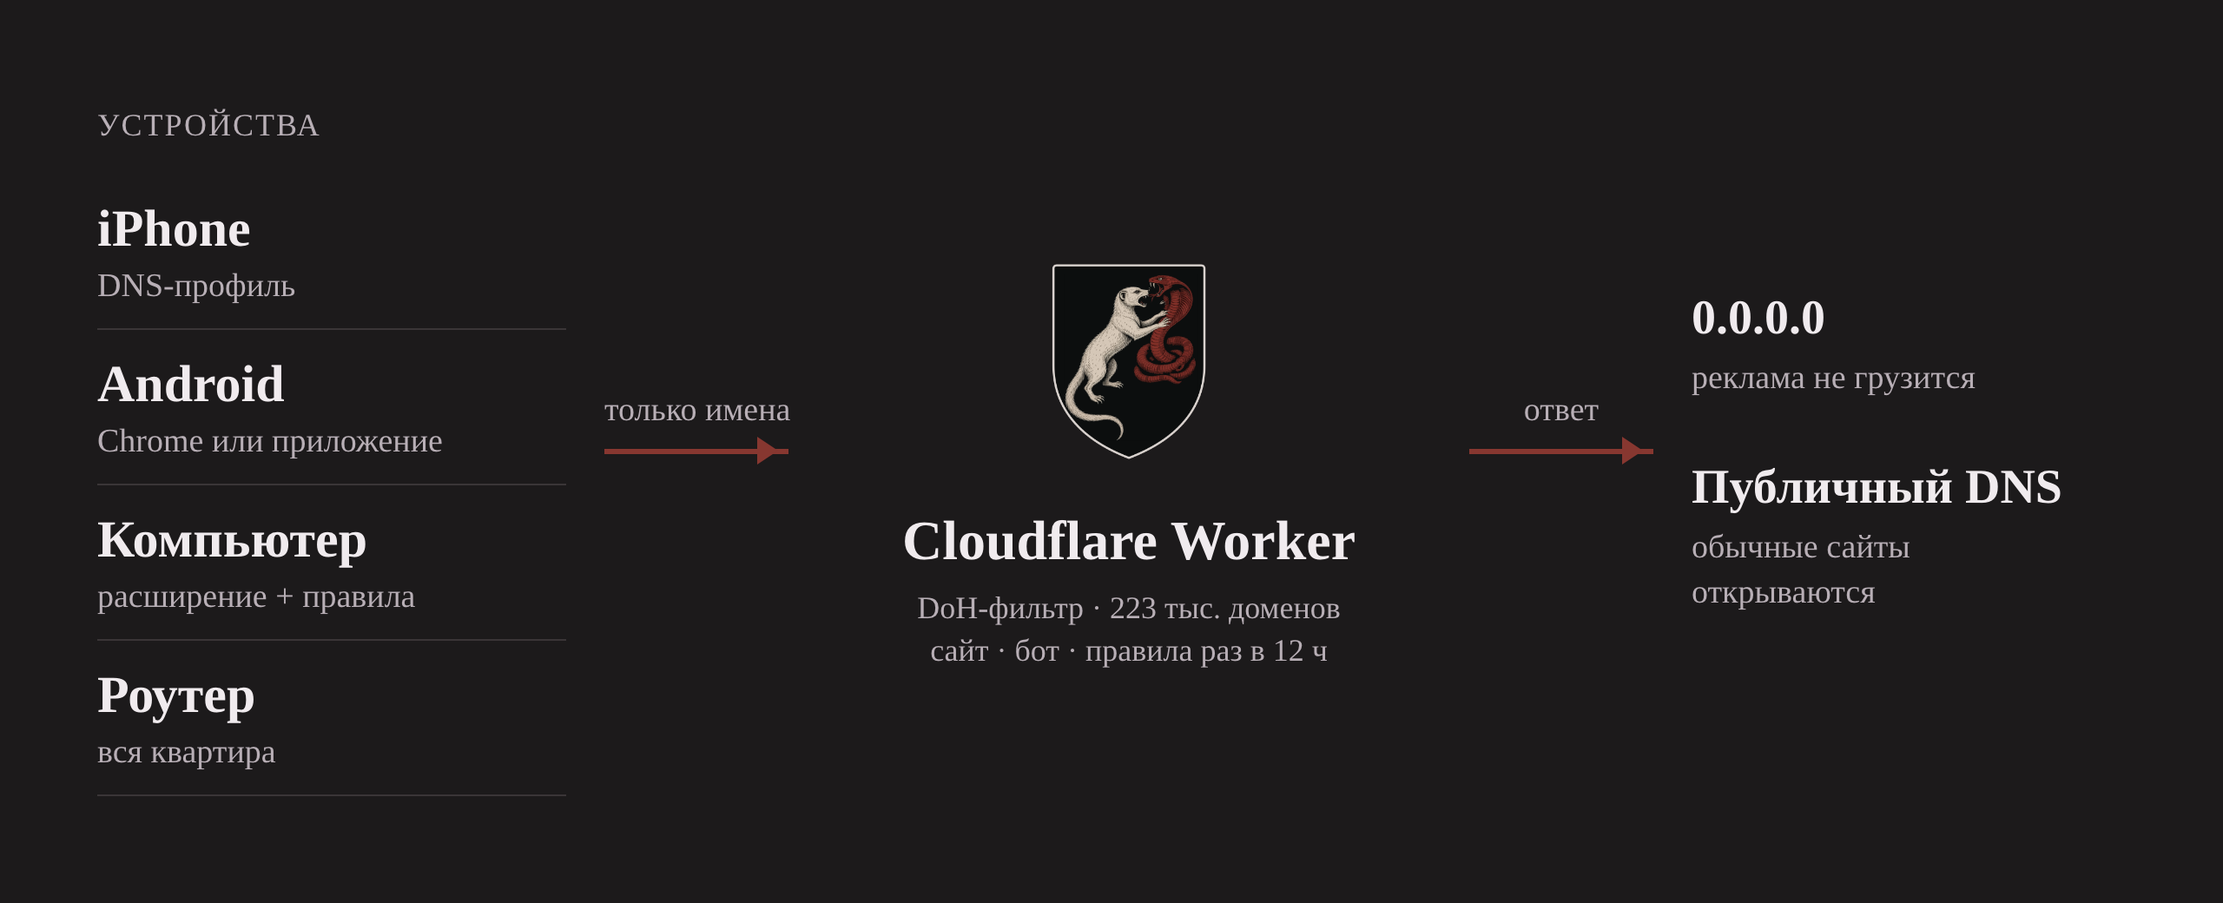
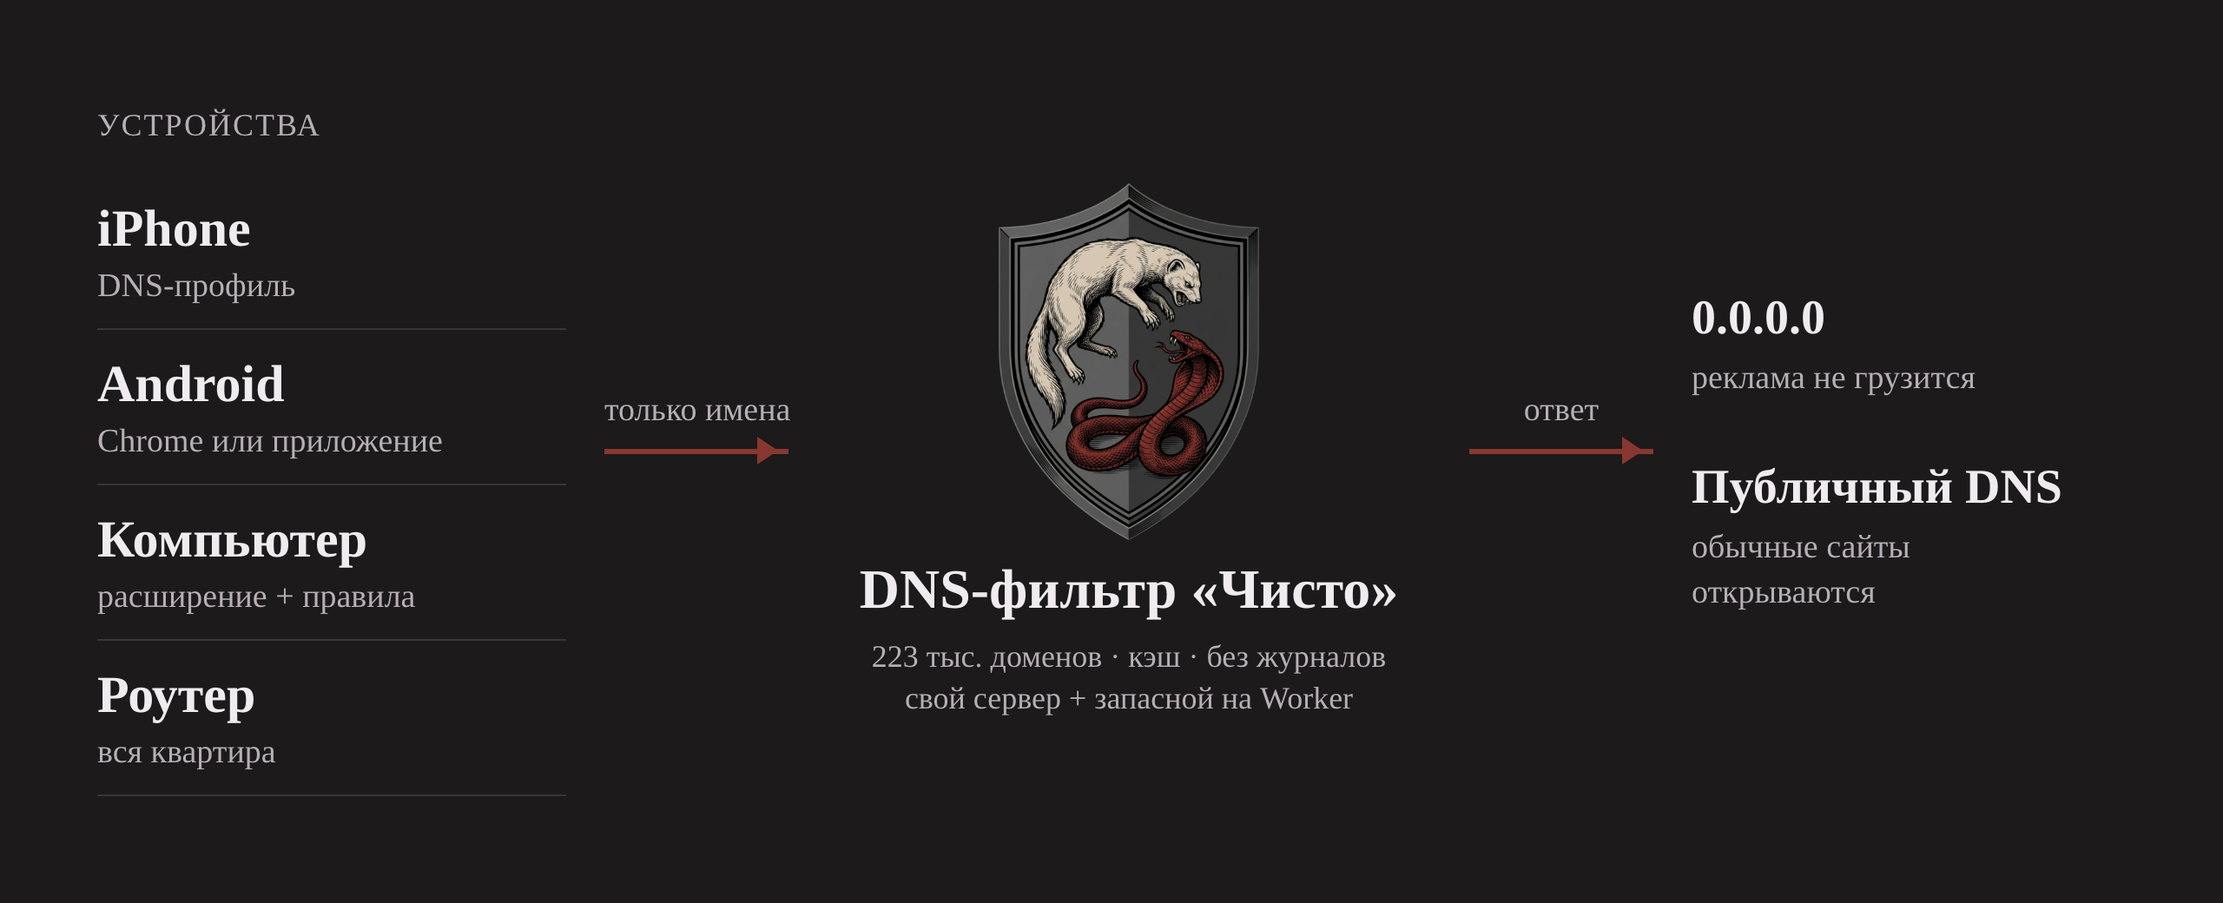
README и картинки под новый герб, бренд-кит в репозитории, лишнее убрано
- Баннер, схема, бот и скрин установки пересобраны с новым щитом
- README: вкладка VPN, свой DNS-сервер, без «навсегда», без имён
- brand/kit: герб, аватарка, баннер бота, шрифты; старые генераторы логотипов удалены
- .DS_Store и рабочие файлы бренда в .gitignore

Changed region(s): [[0.375, 0.2154, 0.625, 0.7385], [0.4062, 0.7692, 0.625, 0.8]]

diff --git a/site/style.css b/site/style.css
@@ -32,8 +32,9 @@ h2 { font-size: clamp(25px, 3vw, 32px); line-height: 1.15; font-weight: 700; mar
 h3 { font-size: 21px; font-weight: 700; margin: 36px 0 8px; }
 
 /* шапка */
-.bar { max-width: 1000px; margin: 0 auto; padding: 22px var(--pad) 0; display: flex; align-items: center; justify-content: space-between; gap: 16px; }
-.motto { margin: 0; font: 700 20px/1.2 var(--font); letter-spacing: .01em; }
+.bar { max-width: 1000px; margin: 0 auto; padding: 22px var(--pad) 0; display: grid; grid-template-columns: minmax(0, 300px) minmax(0, 1fr); gap: clamp(28px, 6vw, 72px); align-items: center; }
+.bar nav { justify-self: end; }
+.motto { margin: 0; text-align: center; font: 700 20px/1.2 var(--font); letter-spacing: .01em; }
 .bar nav { display: flex; gap: 22px; font-size: 17px; }
 
 /* первый экран: герб и текст на одной оси */
@@ -125,9 +126,13 @@ footer code { font-size: 17px; color: var(--muted); }
 
 @media (max-width: 720px) {
   .hero { grid-template-columns: 1fr; gap: 18px; padding-top: 24px; }
-  .crest { justify-self: start; width: 124px; }
-  .hero-text { padding-top: 0; }
-  h1::after { margin: 16px 0 16px; }
+  .bar { grid-template-columns: 1fr; gap: 10px; text-align: center; }
+  .bar nav { justify-self: center; }
+  .crest { justify-self: center; width: 124px; }
+  .hero { text-align: center; }
+  .hero-text { padding-top: 0; margin: 0 auto; }
+  .status { justify-content: center; }
+  h1::after { margin: 16px auto 16px; }
   .facts { margin-bottom: 16px; }
   .bar nav { gap: 16px; font-size: 15px; }
   .bar nav a { white-space: nowrap; }

diff --git a/site/index.html b/site/index.html
@@ -233,11 +233,8 @@
   <div class="foot">
     <p id="tgLine" hidden>Отправить другу удобнее через бота: <a id="tgLink" href="#" rel="noopener"></a> — там те же&nbsp;кнопки.</p>
 
-    <p class="more">Другой проект студии: <a href="https://kachalka.flownote.cc/" rel="noopener">Качалка</a> — сохранение видео из&nbsp;YouTube, TikTok и&nbsp;VK без&nbsp;водяных знаков.</p>
+    <p class="more">Другая программа автора: <a href="https://kachalka.flownote.cc/" rel="noopener">Качалка</a> — сохранение видео из&nbsp;YouTube, TikTok и&nbsp;VK без&nbsp;водяных знаков.</p>
 
-    <a class="ksd" href="https://ksd.flownote.cc/?from=chisto" rel="noopener" aria-label="Студия KSD — работы студии">
-      <span><b>Чисто&nbsp;— проект студии KSD.</b> Разрабатываем сайты и&nbsp;Telegram-боты без&nbsp;рекламы и&nbsp;чужих трекеров. <u>Работы студии</u></span>
-    </a>
 
     <details class="donate" id="donate">
       <summary>Поддержать проект</summary>

diff --git a/.github/assets/src/arch.html b/.github/assets/src/arch.html
@@ -22,6 +22,6 @@ body{padding:56px 56px;display:grid;grid-template-columns:270px 150px 1fr 150px 
 <div class="dev">Компьютер<span>расширение + правила</span></div>
 <div class="dev">Роутер<span>вся квартира</span></div></div>
 <div class="arrow"><i>только имена</i></div>
-<div class="core"><img src="../../../brand/kit/crest-2048.png" alt=""><b>Cloudflare Worker</b><span>DoH-фильтр · 223 тыс. доменов<br>сайт · бот · правила раз в 12 ч</span></div>
+<div class="core"><img src="../../../brand/kit/crest-transparent.png" alt=""><b>DNS-фильтр «Чисто»</b><span>223 тыс. доменов · кэш · без журналов<br>свой сервер + запасной на Worker</span></div>
 <div class="arrow"><i>ответ</i></div>
 <div class="out"><b>0.0.0.0</b><span>реклама не грузится</span><div class="z"><b>Публичный DNS</b><span>обычные сайты<br>открываются</span></div></div>

diff --git a/.github/assets/src/banner.html b/.github/assets/src/banner.html
@@ -2,13 +2,13 @@
 <style>
 :root{--w:1280px;--h:440px}
 body{display:flex;align-items:center;gap:56px;padding:0 96px}
-img{width:330px;height:330px;flex:none;margin:0 -30px}
+img{width:auto;height:300px;flex:none;margin:0 10px}
 h1{font-size:150px;font-weight:700;line-height:.9;letter-spacing:-2px}
 .rule{margin:30px 0 26px}
 p{font-size:34px;line-height:1.25}
 small{display:block;margin-top:18px;font-size:22px;color:var(--muted)}
 </style>
-<img src="../../../brand/kit/crest-2048.png" alt="">
+<img src="../../../brand/kit/crest-transparent.png" alt="">
 <div><h1>Чисто</h1><div class="rule"></div>
 <p>Убирает рекламу и слежку на телефоне и&nbsp;компьютере.</p>
-<small>iPhone · Android · компьютер · роутер · Telegram — бесплатно, без регистрации</small></div>
+<small>iPhone · Android · компьютер · VPN · Telegram — бесплатно, без регистрации</small></div>

diff --git a/README.md b/README.md
@@ -14,7 +14,7 @@
 <h3 align="center">Открыл сайт, нажал одну кнопку — реклама пропала.</h3>
 
 <p align="center">
-  Сайты, игры на телефоне, баннеры и слежка. Без регистрации, без аккаунта, без программ, которые висят в фоне. Бесплатно навсегда.
+  Сайты, игры на телефоне, баннеры и слежка. Без регистрации, без аккаунта, без программ, которые висят в фоне. Бесплатно.
 </p>
 
 <p align="center">
@@ -43,7 +43,7 @@
 
 Блокировщик стоит между вами и интернетом, поэтому доверие надо заслужить, а не попросить.
 
-- **Сервер видит только имена сайтов.** Через него идёт DNS, а не ваш трафик: страницы, пароли и переписка идут напрямую.
+- **Сервер видит только имена сайтов.** Через него идёт DNS, а не ваш трафик: страницы, пароли и переписка идут напрямую. Журналов сервер не пишет.
 - **Ничего не собираем.** Ни аккаунтов, ни журналов, ни аналитики — [docs/PRIVACY.md](docs/PRIVACY.md).
 - **Весь код открыт**, а архивы расширения в [релизах](https://github.com/kozliq/chisto/releases) собирает GitHub с подтверждением происхождения — можно проверить, что файл собран из этого кода.
 - **Даже если сервер угонят**, расширение не примет от него ничего опасного: только «заблокировать» и «разрешить».
@@ -67,7 +67,8 @@
 | iPhone (позже) | Приложение DNS Settings + блокировщик Safari | Только TestFlight / App Store, нужен аккаунт Apple $99/год |
 | Android | «Безопасный DNS» в Chrome; приложение (локальный VPN только для DNS) — APK собирается на GitHub | Скопировать адрес → 3 касания в Chrome |
 | Компьютер | Расширение MV3 (Chrome-семейство и Firefox) + по желанию DNS | Архив с сайта или файлом в боте → «Загрузить распакованное» (в магазинах — позже) |
-| Роутер | DoH/DoT на роутере | Вся домашняя сеть без установки |
+| С VPN | DNS-адрес и список доменов прямо в VPN-клиенте | Вкладка «У меня VPN»: Shadowrocket, sing-box, Happ, V2Ray/Xray, Clash |
+| Роутер | DoH на роутере | Вся домашняя сеть без установки |
 | Telegram | Бот [@chisto_ads_bot](https://t.me/chisto_ads_bot): те же кнопки, расширение файлом, «поделиться» в любом чате | `/start` |
 
 Сколько действий: iPhone — 4 касания и код-пароль; Android и Chrome — скопировать адрес и 3 касания; расширение — 3 шага из архива (в магазинах пока нет).
@@ -115,7 +116,7 @@
 | DoT (Android «Частный DNS», часть роутеров) | **нет** | **нет** | да |
 | Защита от CNAME-маскировки | да | да (тот же код) | да (AdGuard Home) |
 | Обновление списков | при деплое | при выкладке | само, раз в сутки |
-| Сколько людей | несколько десятков телефонов (100 000 запросов/сутки) | тысячи (2 600 запросов/с на 1 ядре) | сотни |
+| Сколько людей | несколько десятков телефонов (100 000 запросов/сутки) | тысячи (4 400 запросов/с на 1 ядре, с кэшем) | сотни |
 
 Официальный «Чисто» так и устроен: сайт и бот — на Worker, DNS для телефонов — на своём сервере (`chisto-dns.flownote.cc`).
 
@@ -156,6 +157,7 @@ Telegram-бот (по желанию): создайте бота в @BotFather, 
     .env.example              — DOH_HOST, DOH_PATH, SERVER_IP и др. Секретов в репозитории нет
     server/                   — docker-compose (AdGuard Home + Caddy), шаблон AdGuardHome.yaml, Caddyfile
     cloudflare/               — бесплатный вариант: Worker = DoH-фильтр + сайт + Telegram-бот; тесты
+    server/deno/              — тот же DNS-фильтр на своём сервере: Deno + Cloudflare Tunnel + сторож
     filters/custom.txt        — свои правила (≈50 примеров всех типов), README — как добавить и откатить
     filters/shared-cdn.txt    — общие CDN, которые нельзя резать в DNS
     tools/build.mjs           — одна сборка: DNS, расширение, Safari, обновления; tools/rules.mjs — конвертер
@@ -177,7 +179,7 @@ Telegram-бот (по желанию): создайте бота в @BotFather, 
 
 ## Поддержать
 
-Чисто бесплатное и таким останется. Если хочется сказать спасибо — [DONATE.md](DONATE.md).
+Чисто бесплатное, пока проект жив; закроется — код открыт, поднимайте у себя. Если хочется сказать спасибо — [DONATE.md](DONATE.md).
 
 ## Лицензия
 

diff --git a/brand/kit/BRAND.md b/brand/kit/BRAND.md
@@ -1,0 +1,54 @@
+# Фирменный стиль «Чисто»
+
+Утверждён Валерой 25.10.2026. Старый стиль (синий, золото, Прометей, Unbounded, «Война с рекламой вечна») больше не используем.
+
+## Образ
+
+Герб: **мангуст против кобры** («Рикки-Тикки-Тави»). Мангуст — мы: меньше, бешеный, но побеждает. Кобра — реклама и слежка.
+Рыцарский щит-тарч в технике гравюры: серое поле с двойным кантом, светлый мангуст в прыжке над красной коброй. Без надписей, корон и «AD» на гербе.
+
+## Файлы (папка `brand/kit/`)
+
+| Файл | Для чего |
+|---|---|
+| `crest-2048.png` | герб на тёмном фоне, 2048×2048 — из него `tools/icons.sh` делает все иконки |
+| `crest-transparent.png` | только щит на прозрачном фоне — для баннеров, README, обложек |
+| `avatar-640.png` | аватарка бота / канала (щит влезает в круг Telegram) |
+| `tg-banner-640x360.png` | картинка в описании бота (BotFather → Edit Description Picture) |
+| `fonts/` | Tinos 400 и 700 (woff2, кириллица + латиница) |
+
+## Цвета
+
+| Роль | Цвет |
+|---|---|
+| Фон страницы | `#1c1a1b` |
+| Поле щита, самые тёмные блоки | `#0c0e0e` |
+| Основной текст | `#f0ebee` |
+| Вторичный текст (не темнее) | `#b8afb6` |
+| Кость (мангуст), рамка щита | `#cfc2b3` / рамка `#d9d2ce` |
+| Красный кобры — только линии и заливки | `#873730`, тёмный `#672a25` |
+
+Красный и оранжевый ТЕКСТ не использовать (Валера: «странный, непонятный»). Акцент в тексте — жирность и размер, цвет текста всегда `#f0ebee` или `#b8afb6`.
+Жёлтый и синий не использовать. Текст не затемнять прозрачностью.
+
+## Шрифт — один на всё: Tinos (Times New Roman)
+
+Валера выбрал 25.10: **всё на Times** — заголовки, текст, кнопки. Берём **Tinos** (бесплатная копия Times New Roman с той же шириной букв, Apache 2.0), чтобы на Android и Windows выглядело так же, как на Маке. Playfair Display, Manrope, Unbounded, Literata больше не используем.
+
+- Вес 700 — «Чисто» и заголовки, 400 — текст, 700 — кнопки и выделения.
+- Текст от 17px (с засечками мелкий текст читается хуже), подписи не меньше 13px.
+- Курсив на кириллице не использовать.
+
+```css
+@font-face{font-family:Tinos;src:url(fonts/tinos-cyrillic-400.woff2) format("woff2");font-weight:400;unicode-range:U+0301,U+0400-045F,U+0490-0491,U+04B0-04B1,U+2116}
+@font-face{font-family:Tinos;src:url(fonts/tinos-latin-400.woff2) format("woff2");font-weight:400;unicode-range:U+0000-00FF,U+0131,U+0152-0153,U+02BB-02BC,U+02C6,U+02DA,U+02DC,U+0304,U+0308,U+0329,U+2000-206F,U+20AC,U+2122,U+2191,U+2193,U+2212,U+2215,U+FEFF,U+FFFD}
+@font-face{font-family:Tinos;src:url(fonts/tinos-cyrillic-700.woff2) format("woff2");font-weight:700;unicode-range:U+0301,U+0400-045F,U+0490-0491,U+04B0-04B1,U+2116}
+@font-face{font-family:Tinos;src:url(fonts/tinos-latin-700.woff2) format("woff2");font-weight:700;unicode-range:U+0000-00FF,U+0131,U+0152-0153,U+02BB-02BC,U+02C6,U+02DA,U+02DC,U+0304,U+0308,U+0329,U+2000-206F,U+20AC,U+2122,U+2191,U+2193,U+2212,U+2215,U+FEFF,U+FFFD}
+body{font-family:Tinos,"Times New Roman",Times,serif}
+```
+
+Для картинок README/статьи (headless Chrome) — тот же Tinos из `kit/fonts/`.
+
+## Правила Валеры для интерфейса
+
+Без «квадратиков»: никаких карточек, плиток, кнопок-прямоугольников, полей в рамках, пилюль. Группировать воздухом, линиями, крупным шрифтом. Кнопки — текст с подчёркиванием или круглая метка с иконкой. Рабочий текст от 15px, подписи от 11px.
